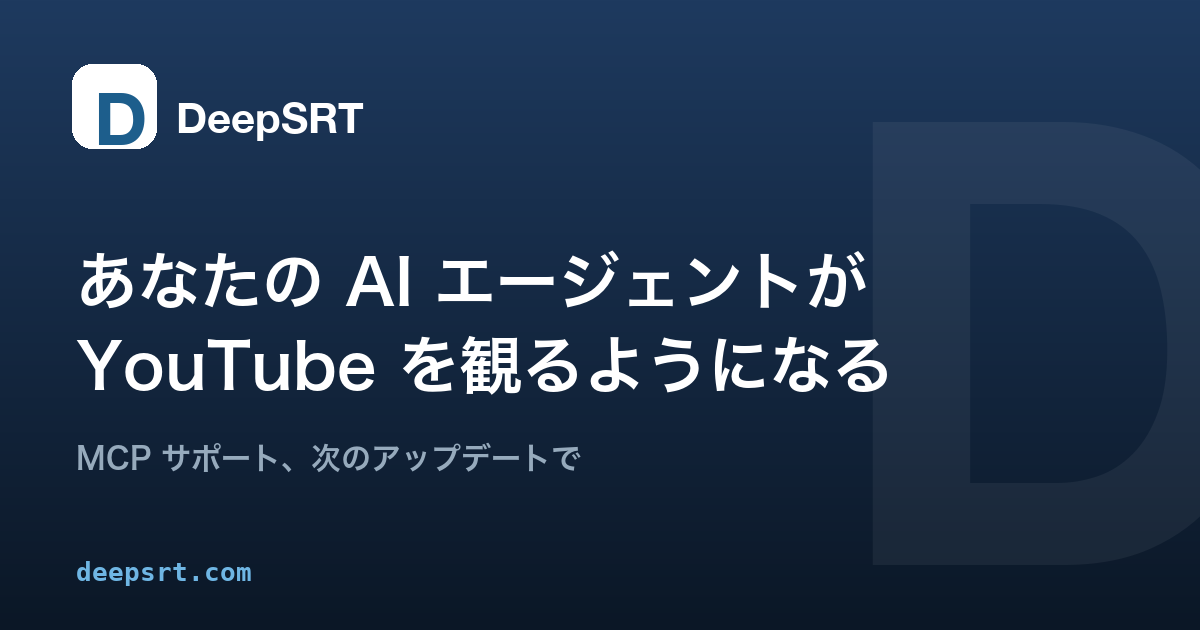
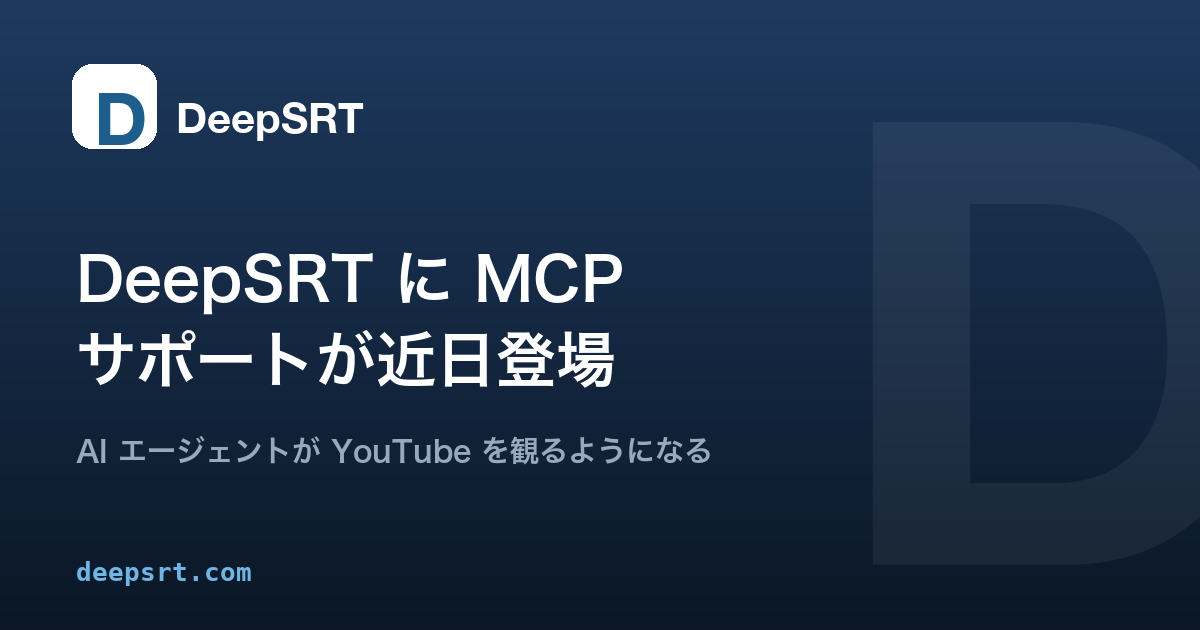
notes: retitle the MCP note and open with the question instead of the callback
Title is now 'Built-in MCP Support Is Coming to DeepSRT' (zh: DeepSRT 內建
MCP 功能即將登場). The old title — your AI agent can now watch YouTube —
was the better hook than headline, so it becomes the lede and the OG card
subtitle rather than being thrown away.

New opening starts from what the app already does (play, summarize,
transcribe) and asks what happens when it also becomes an MCP server that
serves nothing but this machine. Names the clients that answer that
question — Claude Code, Kiro, Codex, Cursor — and shows the two requests
that make the point better than any feature list:

  Hey, find Big Bang's newest video this week and just play the most
  popular one.
  Hey, check every Fox News story today and tell me what the top five are
  about.

Those are aspiration, so the following section now says so explicitly
before showing the two exchanges that were actually executed and logged.
Keeping the boundary between what we designed for and what we verified is
the whole reason these notes are worth reading.

OG cards regenerated in all four locales; listing entries retitled.

Changed region(s): [[0.0617, 0.3921, 0.74, 0.6333], [0.0617, 0.6937, 0.5858, 0.754]]

diff --git a/ja/notes/your-ai-agent-can-watch-youtube/index.html b/ja/notes/your-ai-agent-can-watch-youtube/index.html
@@ -3,11 +3,11 @@
 <head>
   <meta charset="utf-8">
   <meta name="viewport" content="width=device-width, initial-scale=1">
-  <title>あなたの AI エージェントが YouTube を観るようになる</title>
-  <meta name="description" content="DeepSRT に MCP サポートが近日登場:検索、字幕、要約、再生まで6つのツールをエージェントに。すべてあなたの Mac 上で、あなた自身のキーで。">
+  <title>DeepSRT に MCP サポートが近日登場</title>
+  <meta name="description" content="DeepSRT がこのマシンだけに応える MCP サーバーになる:MCP 対応のエージェントなら、どの YouTube 動画の要約も文字起こしも取得でき、再生の操作まで任せられる。">
   <meta property="og:type" content="article">
-  <meta property="og:title" content="あなたの AI エージェントが YouTube を観るようになる">
-  <meta property="og:description" content="DeepSRT に MCP サポートが近日登場:検索、字幕、要約、再生まで6つのツールをエージェントに。すべてあなたの Mac 上で、あなた自身のキーで。">
+  <meta property="og:title" content="DeepSRT に MCP サポートが近日登場">
+  <meta property="og:description" content="DeepSRT がこのマシンだけに応える MCP サーバーになる:MCP 対応のエージェントなら、どの YouTube 動画の要約も文字起こしも取得でき、再生の操作まで任せられる。">
   <meta property="og:url" content="https://deepsrt.com/ja/notes/your-ai-agent-can-watch-youtube/">
   <meta property="og:image" content="https://deepsrt.com/ja/notes/your-ai-agent-can-watch-youtube/og-card.png">
   <meta property="og:image:width" content="1200">
@@ -90,14 +90,19 @@
 </nav>
 <main>
   <a class="backlink" href="/ja/notes/">← ノート</a>
-  <h1>あなたの AI エージェントが YouTube を観るようになる</h1>
+  <h1>DeepSRT に MCP サポートが近日登場</h1>
   <p class="meta">2026年8月 · DeepSRT 開発ノート</p>
-  <p class="lead">DeepSRT に MCP サポートが近日登場します。エージェントが手にするのは6つのツール——検索、チャンネル一覧、字幕情報、文字起こし、要約、再生。そのどれも Mac の外へ出ません。</p>
+  <p class="lead">あなたの AI エージェントが YouTube を観るようになる。6つのツール——検索、チャンネル一覧、字幕情報、文字起こし、要約、再生。そのどれも Mac の外へ出ません。</p>
   <article>
+<p>DeepSRT はすでにこれらをこなす:動画を再生し、要約を作り、文字起こしを取ってくる。では——これが姿を変えて、このマシンだけに応える MCP サーバーになったら、どうなるだろう?</p>
+<p>Claude Code、Kiro、Codex、Cursor——MCP を話すエージェントなら何でも、DeepSRT 経由でどの YouTube 動画の要約も文字起こしも手に入る。さらに DeepSRT 自体を操作させて、動画を画面に出してもらうこともできる。</p>
+<blockquote>ねえ、Big Bang の今週の最新動画を探して、いちばん人気のあるやつをそのまま再生して。</blockquote>
+<blockquote>ねえ、Fox News の今日のニュースを全部見て、上位5本が何の話か教えて。</blockquote>
 <p><a href="/ja/notes/why-deepsrt-has-no-servers/">「DeepSRT にサーバーがない理由」</a>の最後に、実は約束だった一文を書いた。<em>プライベートな MCP サポートを準備中で、AI エージェントが DeepSRT と直接やり取りできるようになる。</em></p>
 <p>できあがった。次のバージョンで届く。</p>
 <h2>実際にはこう動く</h2>
 <p>エージェントの MCP 設定に DeepSRT を一度追加するだけ。あとはこんなことができる:</p>
+<p>上の2つは、私たちが目指していた姿だ。下の2つは、実際に走った記録だ。</p>
 <blockquote>swift 6 strict concurrency を検索して、いちばん関連するものを選び、字幕があるか確認して、あれば箇条書きモードで要約して。</blockquote>
 <p>ツール呼び出し3回、36秒。返ってきた箇条書きには、動画のその瞬間を指すタイムスタンプが付いている。もっと素朴に言えば:</p>
 <blockquote>あのチャンネルの最新動画を再生して。</blockquote>

diff --git a/ko/notes/your-ai-agent-can-watch-youtube/index.html b/ko/notes/your-ai-agent-can-watch-youtube/index.html
@@ -3,11 +3,11 @@
 <head>
   <meta charset="utf-8">
   <meta name="viewport" content="width=device-width, initial-scale=1">
-  <title>당신의 AI 에이전트가 이제 YouTube를 봅니다</title>
-  <meta name="description" content="DeepSRT에 MCP 지원이 곧 들어옵니다: 검색, 자막, 요약, 재생까지 여섯 개의 도구를 에이전트에게. 모두 당신의 Mac에서, 당신의 키로.">
+  <title>DeepSRT에 내장 MCP 지원이 곧 등장합니다</title>
+  <meta name="description" content="DeepSRT가 이 기기만을 위한 MCP 서버가 됩니다: MCP를 지원하는 에이전트라면 어떤 YouTube 영상의 요약과 자막도 가져올 수 있고, 재생까지 맡길 수 있습니다.">
   <meta property="og:type" content="article">
-  <meta property="og:title" content="당신의 AI 에이전트가 이제 YouTube를 봅니다">
-  <meta property="og:description" content="DeepSRT에 MCP 지원이 곧 들어옵니다: 검색, 자막, 요약, 재생까지 여섯 개의 도구를 에이전트에게. 모두 당신의 Mac에서, 당신의 키로.">
+  <meta property="og:title" content="DeepSRT에 내장 MCP 지원이 곧 등장합니다">
+  <meta property="og:description" content="DeepSRT가 이 기기만을 위한 MCP 서버가 됩니다: MCP를 지원하는 에이전트라면 어떤 YouTube 영상의 요약과 자막도 가져올 수 있고, 재생까지 맡길 수 있습니다.">
   <meta property="og:url" content="https://deepsrt.com/ko/notes/your-ai-agent-can-watch-youtube/">
   <meta property="og:image" content="https://deepsrt.com/ko/notes/your-ai-agent-can-watch-youtube/og-card.png">
   <meta property="og:image:width" content="1200">
@@ -90,14 +90,19 @@
 </nav>
 <main>
   <a class="backlink" href="/ko/notes/">← 노트</a>
-  <h1>당신의 AI 에이전트가 이제 YouTube를 봅니다</h1>
+  <h1>DeepSRT에 내장 MCP 지원이 곧 등장합니다</h1>
   <p class="meta">2026년 8월 · DeepSRT 개발 노트</p>
-  <p class="lead">DeepSRT에 MCP 지원이 곧 들어옵니다. 에이전트가 얻는 것은 여섯 개의 도구 — 검색, 채널 목록, 자막 정보, 자막 전문, 요약, 재생. 그 어느 것도 Mac을 떠나지 않습니다.</p>
+  <p class="lead">당신의 AI 에이전트가 이제 YouTube를 봅니다. 여섯 개의 도구 — 검색, 채널 목록, 자막 정보, 자막 전문, 요약, 재생 — 그 어느 것도 Mac을 떠나지 않습니다.</p>
   <article>
+<p>DeepSRT는 이미 이런 일을 한다: 영상을 재생하고, 요약을 만들고, 자막 전문을 가져온다. 그렇다면 — 이것이 모습을 바꿔, 이 기기만을 위한 MCP 서버가 된다면 어떻게 될까?</p>
+<p>Claude Code, Kiro, Codex, Cursor — MCP를 말하는 에이전트라면 무엇이든, DeepSRT를 통해 어떤 YouTube 영상의 요약과 자막도 얻을 수 있다. 나아가 DeepSRT 자체를 조작해서 영상을 화면에 띄우게 할 수도 있다.</p>
+<blockquote>야, Big Bang 이번 주 최신 영상 찾아서 가장 인기 있는 걸 바로 재생해줘.</blockquote>
+<blockquote>야, Fox News 오늘 뉴스 전부 확인해서 상위 다섯 개가 무슨 이야기인지 알려줘.</blockquote>
 <p><a href="/ko/notes/why-deepsrt-has-no-servers/">「DeepSRT에 서버가 없는 이유」</a>의 마지막에, 사실은 약속이었던 한 문장을 썼다. <em>프라이빗 MCP 지원을 준비 중이며, AI 에이전트가 DeepSRT와 직접 대화할 수 있게 된다.</em></p>
 <p>다 만들었다. 다음 버전에 도착한다.</p>
 <h2>실제로는 이렇게 작동한다</h2>
 <p>에이전트의 MCP 설정에 DeepSRT를 한 번 추가하면 된다. 그다음부터는 이런 일이 가능하다:</p>
+<p>위의 두 개는 우리가 목표로 삼았던 모습이다. 아래 두 개는 실제로 돌아간 기록이다.</p>
 <blockquote>swift 6 strict concurrency를 검색해서 가장 관련 있는 것을 고르고, 자막이 있는지 확인하고, 있으면 불릿 모드로 요약해줘.</blockquote>
 <p>도구 호출 세 번, 36초. 돌아온 불릿에는 영상의 그 순간을 가리키는 타임스탬프가 붙어 있다. 더 직설적으로 말하면:</p>
 <blockquote>그 채널 최신 영상 재생해줘.</blockquote>

diff --git a/zh/notes/your-ai-agent-can-watch-youtube/index.html b/zh/notes/your-ai-agent-can-watch-youtube/index.html
@@ -3,11 +3,11 @@
 <head>
   <meta charset="utf-8">
   <meta name="viewport" content="width=device-width, initial-scale=1">
-  <title>你的 AI Agent 現在會看 YouTube 了</title>
-  <meta name="description" content="DeepSRT 內建 MCP 功能即將登場：六個工具讓 agent 搜尋 YouTube、讀字幕、做摘要、把影片開到你眼前——全部在你的 Mac 上，用你自己的金鑰。">
+  <title>DeepSRT 內建 MCP 功能即將登場</title>
+  <meta name="description" content="DeepSRT 要變成一個只服務本機的 MCP server：任何支援 MCP 的 agent 都能透過它拿到任何 YouTube 影片的摘要與逐字稿，甚至直接幫你操作播放。">
   <meta property="og:type" content="article">
-  <meta property="og:title" content="你的 AI Agent 現在會看 YouTube 了">
-  <meta property="og:description" content="DeepSRT 內建 MCP 功能即將登場：六個工具讓 agent 搜尋 YouTube、讀字幕、做摘要、把影片開到你眼前——全部在你的 Mac 上，用你自己的金鑰。">
+  <meta property="og:title" content="DeepSRT 內建 MCP 功能即將登場">
+  <meta property="og:description" content="DeepSRT 要變成一個只服務本機的 MCP server：任何支援 MCP 的 agent 都能透過它拿到任何 YouTube 影片的摘要與逐字稿，甚至直接幫你操作播放。">
   <meta property="og:url" content="https://deepsrt.com/zh/notes/your-ai-agent-can-watch-youtube/">
   <meta property="og:image" content="https://deepsrt.com/zh/notes/your-ai-agent-can-watch-youtube/og-card.png">
   <meta property="og:image:width" content="1200">
@@ -90,14 +90,19 @@
 </nav>
 <main>
   <a class="backlink" href="/zh/notes/">← 筆記</a>
-  <h1>你的 AI Agent 現在會看 YouTube 了</h1>
+  <h1>DeepSRT 內建 MCP 功能即將登場</h1>
   <p class="meta">2026 年 8 月 · DeepSRT 開發筆記</p>
-  <p class="lead">DeepSRT 內建 MCP 功能即將登場。你的 agent 會拿到六個工具——搜尋、頻道列表、字幕資訊、逐字稿、摘要、播放——而這一切都不離開你的 Mac。</p>
+  <p class="lead">你的 AI Agent 現在會看 YouTube 了。六個工具——搜尋、頻道列表、字幕資訊、逐字稿、摘要、播放——而這一切都不離開你的 Mac。</p>
   <article>
+<p>DeepSRT 已經會做這些事了：播放影片、產生摘要、取得逐字稿。那麼——如果它搖身一變，變成一個只服務本機的 MCP server，會怎麼樣？</p>
+<p>那就變成 Claude Code、Kiro、Codex、Cursor，任何支援 MCP 的 agent，都能透過 DeepSRT 拿到任何 YouTube 影片的摘要和逐字稿。甚至可以讓 agent 直接操作 DeepSRT，幫你把影片播出來。</p>
+<blockquote>嘿！幫我找 Big Bang 這週的最新影片，直接播放最熱門的那支！</blockquote>
+<blockquote>嘿！幫我查一下 Fox News 今天所有新聞，最熱門的五條在講什麼。</blockquote>
 <p>在<a href="/zh/notes/why-deepsrt-has-no-servers/">〈為什麼 DeepSRT 沒有伺服器〉</a>的最後，我們寫了一句其實是承諾的話：<em>私有 MCP 支援即將登場，讓你的 AI agent 直接跟 DeepSRT 對話。</em></p>
 <p>做好了。下一版就到。</p>
 <h2>實際用起來是什麼樣子</h2>
 <p>你只需要把 DeepSRT 加進 agent 的 MCP 設定一次。之後它就能做這種事：</p>
+<p>上面那兩句是我們想達成的樣子。下面這兩個，是實際跑出來的紀錄。</p>
 <blockquote>搜尋 swift 6 strict concurrency，挑最相關的一支，確認有字幕，有的話用條列模式摘要。</blockquote>
 <p>三次工具呼叫、三十六秒，得到一份條列摘要，每一條都帶著能跳回影片那一刻的時間戳。或者更直接一點：</p>
 <blockquote>播放那個頻道最新的影片。</blockquote>

diff --git a/notes/your-ai-agent-can-watch-youtube/index.html b/notes/your-ai-agent-can-watch-youtube/index.html
@@ -3,11 +3,11 @@
 <head>
   <meta charset="utf-8">
   <meta name="viewport" content="width=device-width, initial-scale=1">
-  <title>Your AI Agent Can Now Watch YouTube</title>
-  <meta name="description" content="Built-in MCP support is coming to DeepSRT: six tools that let an agent search YouTube, read captions, summarize, and put a video in front of you — all on your Mac, on your own key.">
+  <title>Built-in MCP Support Is Coming to DeepSRT</title>
+  <meta name="description" content="DeepSRT is becoming a local-only MCP server: any MCP-capable agent can pull summaries and transcripts for any YouTube video, and even drive playback for you.">
   <meta property="og:type" content="article">
-  <meta property="og:title" content="Your AI Agent Can Now Watch YouTube">
-  <meta property="og:description" content="Built-in MCP support is coming to DeepSRT: six tools that let an agent search YouTube, read captions, summarize, and put a video in front of you — all on your Mac, on your own key.">
+  <meta property="og:title" content="Built-in MCP Support Is Coming to DeepSRT">
+  <meta property="og:description" content="DeepSRT is becoming a local-only MCP server: any MCP-capable agent can pull summaries and transcripts for any YouTube video, and even drive playback for you.">
   <meta property="og:url" content="https://deepsrt.com/notes/your-ai-agent-can-watch-youtube/">
   <meta property="og:image" content="https://deepsrt.com/notes/your-ai-agent-can-watch-youtube/og-card.png">
   <meta property="og:image:width" content="1200">
@@ -90,14 +90,19 @@
 </nav>
 <main>
   <a class="backlink" href="/notes/">← Notes</a>
-  <h1>Your AI Agent Can Now Watch YouTube</h1>
+  <h1>Built-in MCP Support Is Coming to DeepSRT</h1>
   <p class="meta">August 2026 · DeepSRT development notes</p>
-  <p class="lead">Built-in MCP support is coming to DeepSRT. Your agent gets six tools — search, channel listings, caption info, transcripts, summaries, playback — and none of it leaves your Mac.</p>
+  <p class="lead">Your AI agent can now watch YouTube. Six tools — search, channel listings, caption info, transcripts, summaries, playback — and none of it leaves your Mac.</p>
   <article>
+<p>DeepSRT already does these things: plays a video, produces a summary, fetches a transcript. So — what happens if it also turns into an MCP server that serves nothing but this machine?</p>
+<p>It means Claude Code, Kiro, Codex, Cursor — any agent that speaks MCP — can get a summary or a transcript for any YouTube video through DeepSRT. And it can drive DeepSRT itself, and put a video on your screen for you.</p>
+<blockquote>Hey, find Big Bang's newest video this week and just play the most popular one.</blockquote>
+<blockquote>Hey, check every Fox News story today and tell me what the top five are about.</blockquote>
 <p>At the end of <a href="/notes/why-deepsrt-has-no-servers/">the note about having no servers</a> we wrote one line that was really a promise: <em>private MCP support is on the way, so your AI agents can talk to DeepSRT directly.</em></p>
 <p>It's built. It arrives in the next version.</p>
 <h2>What it actually looks like</h2>
 <p>You add DeepSRT to your agent's MCP configuration once. After that, the agent can do this:</p>
+<p>Those two are what we were aiming for. These two are transcripts of what actually ran.</p>
 <blockquote>Search YouTube for "swift 6 strict concurrency", pick the most relevant result, check whether it has captions, and if it does, summarize it in bullet mode.</blockquote>
 <p>Three tool calls, thirty-six seconds, and a summary whose bullets carry timestamps that point at the exact moment in the video. Or, more bluntly:</p>
 <blockquote>Play the latest video from that channel.</blockquote>

diff --git a/ja/notes/index.html b/ja/notes/index.html
@@ -77,7 +77,7 @@
   <ul class="note-list">
     <li>
       <a href="/ja/notes/your-ai-agent-can-watch-youtube/">
-        <div class="t">あなたの AI エージェントが YouTube を観るようになる</div>
+        <div class="t">DeepSRT に MCP サポートが近日登場</div>
         <div class="d">2026年8月 · DeepSRT 開発ノート</div>
         <div class="s">MCP サポートが近日登場:6つのツール、あなた自身のキー、Mac を出ないデータ——そして「ツール0個、エラーなし」を招いた仕様の罠。</div>
       </a>

diff --git a/ko/notes/index.html b/ko/notes/index.html
@@ -77,7 +77,7 @@
   <ul class="note-list">
     <li>
       <a href="/ko/notes/your-ai-agent-can-watch-youtube/">
-        <div class="t">당신의 AI 에이전트가 이제 YouTube를 봅니다</div>
+        <div class="t">DeepSRT에 내장 MCP 지원이 곧 등장합니다</div>
         <div class="d">2026년 8월 · DeepSRT 개발 노트</div>
         <div class="s">MCP 지원이 곧 들어옵니다: 여섯 개의 도구, 당신의 키, Mac을 떠나지 않는 데이터 — 그리고 「도구 0개, 오류 없음」을 만든 명세의 함정.</div>
       </a>

diff --git a/zh/notes/index.html b/zh/notes/index.html
@@ -77,7 +77,7 @@
   <ul class="note-list">
     <li>
       <a href="/zh/notes/your-ai-agent-can-watch-youtube/">
-        <div class="t">你的 AI Agent 現在會看 YouTube 了</div>
+        <div class="t">DeepSRT 內建 MCP 功能即將登場</div>
         <div class="d">2026 年 8 月 · DeepSRT 開發筆記</div>
         <div class="s">內建 MCP 功能即將登場：六個工具、你自己的金鑰、資料不離開 Mac——以及那個讓客戶端顯示「零個工具」卻不報錯的規格陷阱。</div>
       </a>

diff --git a/notes/index.html b/notes/index.html
@@ -77,7 +77,7 @@
   <ul class="note-list">
     <li>
       <a href="/notes/your-ai-agent-can-watch-youtube/">
-        <div class="t">Your AI Agent Can Now Watch YouTube</div>
+        <div class="t">Built-in MCP Support Is Coming to DeepSRT</div>
         <div class="d">August 2026 · DeepSRT development notes</div>
         <div class="s">Built-in MCP support is coming: six tools, your own key, nothing leaving your Mac — plus the spec trap that made a client report zero tools with no error.</div>
       </a>
